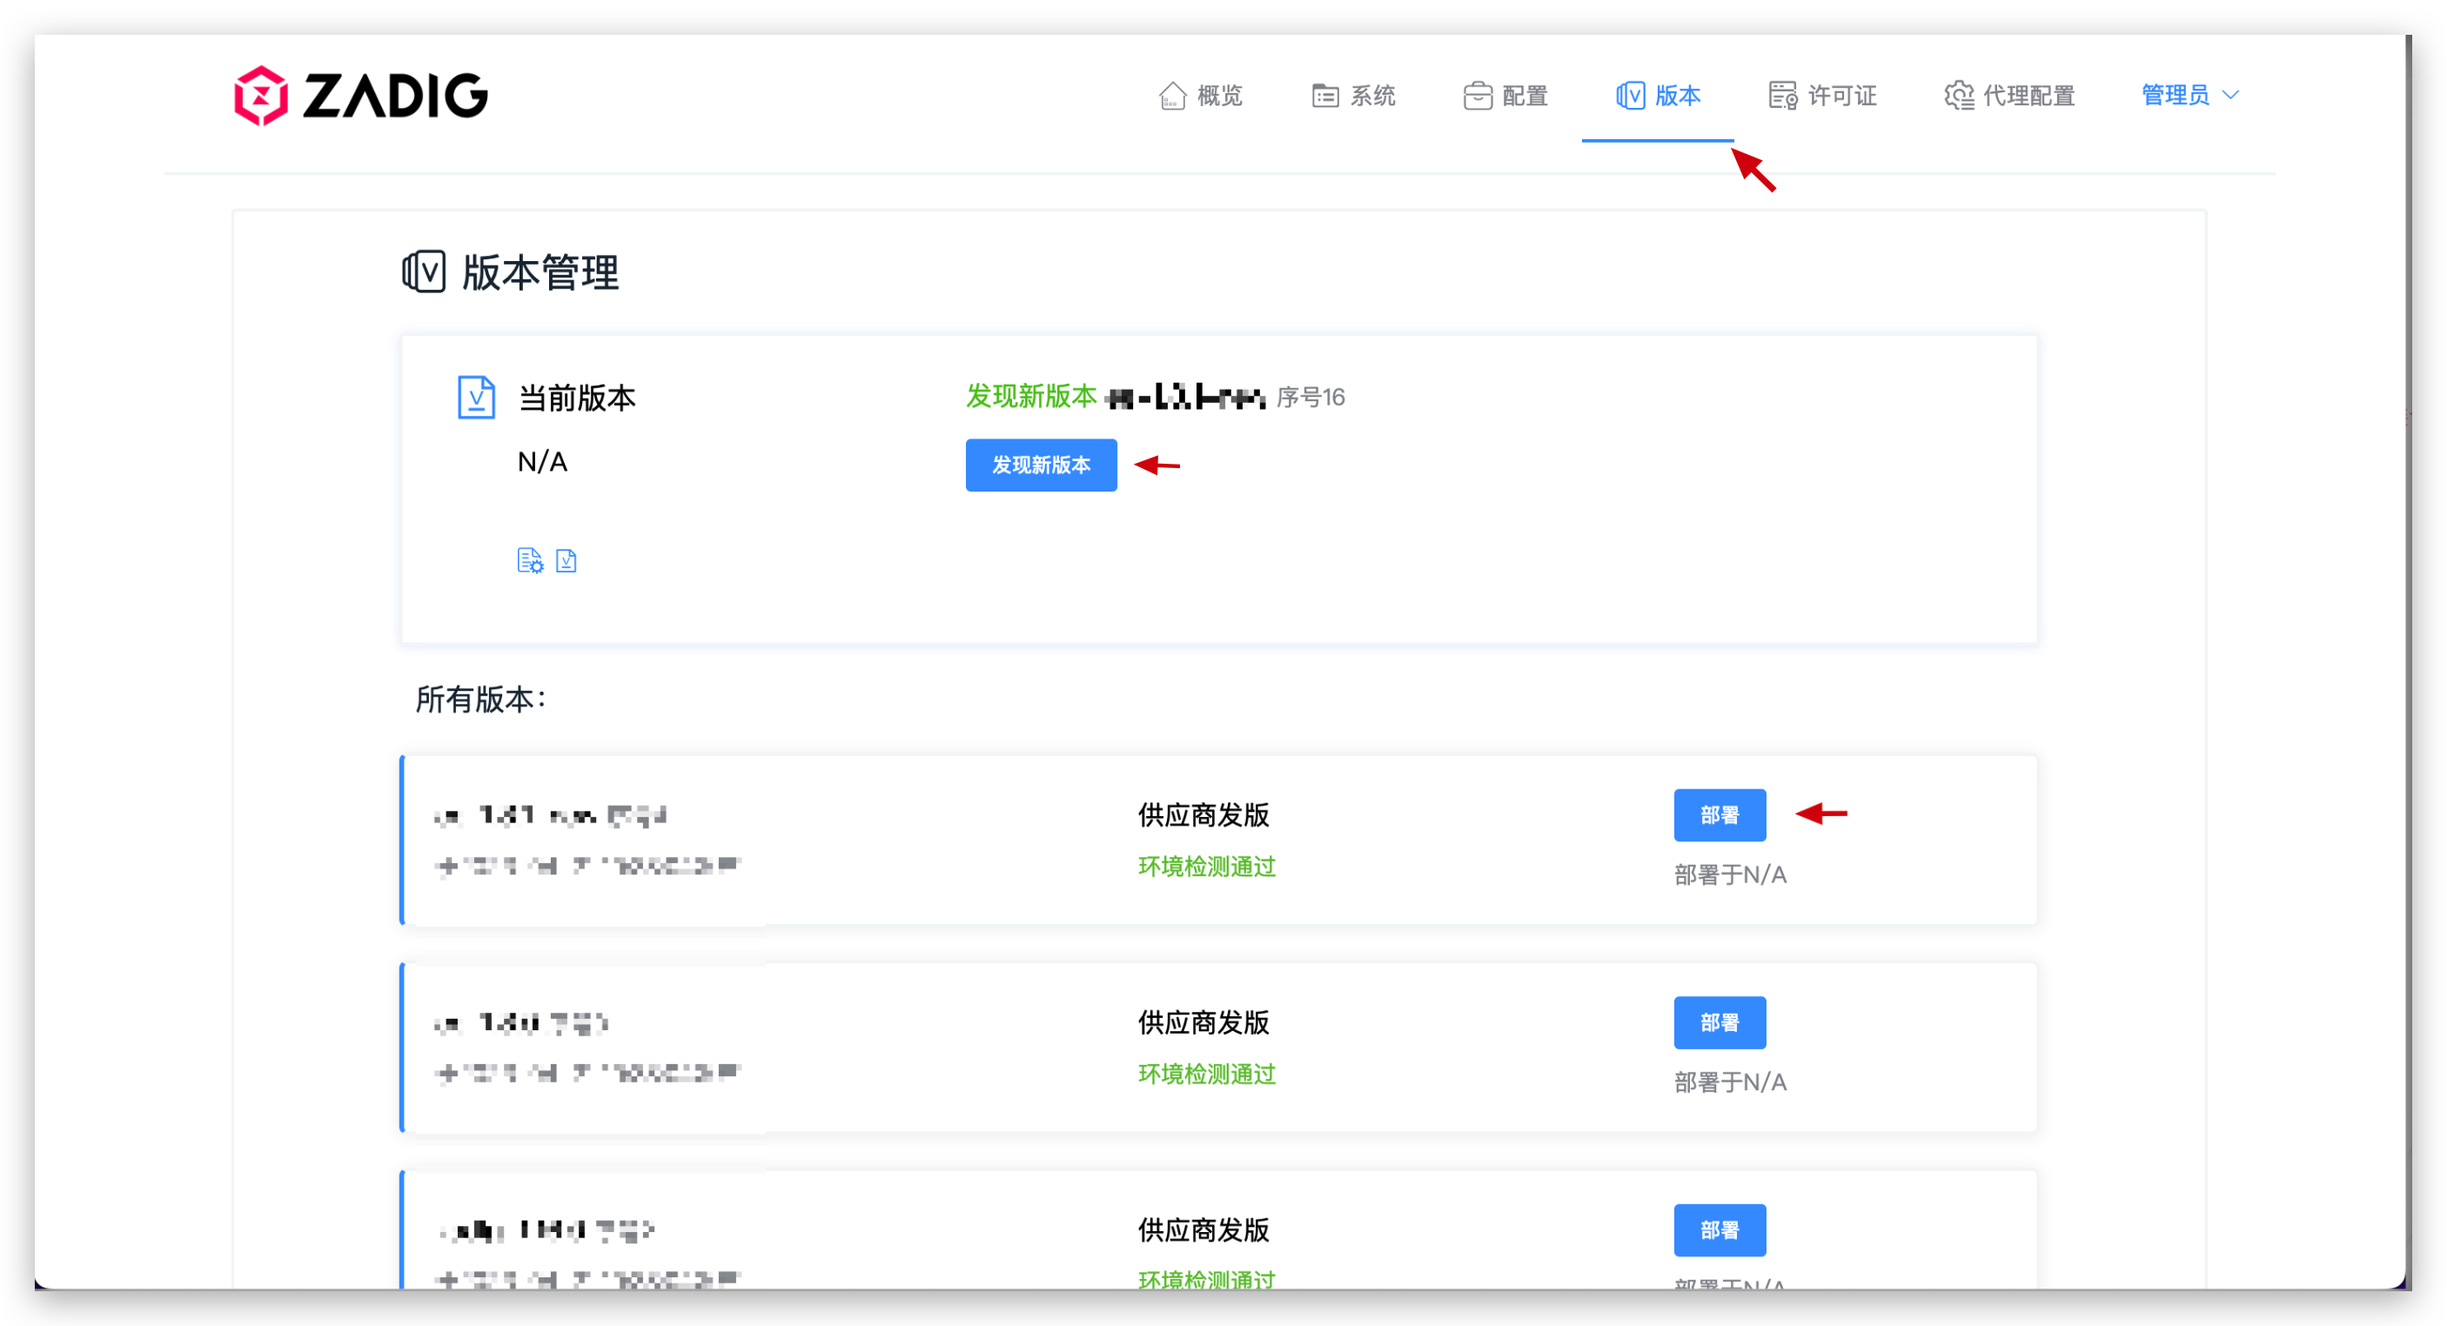
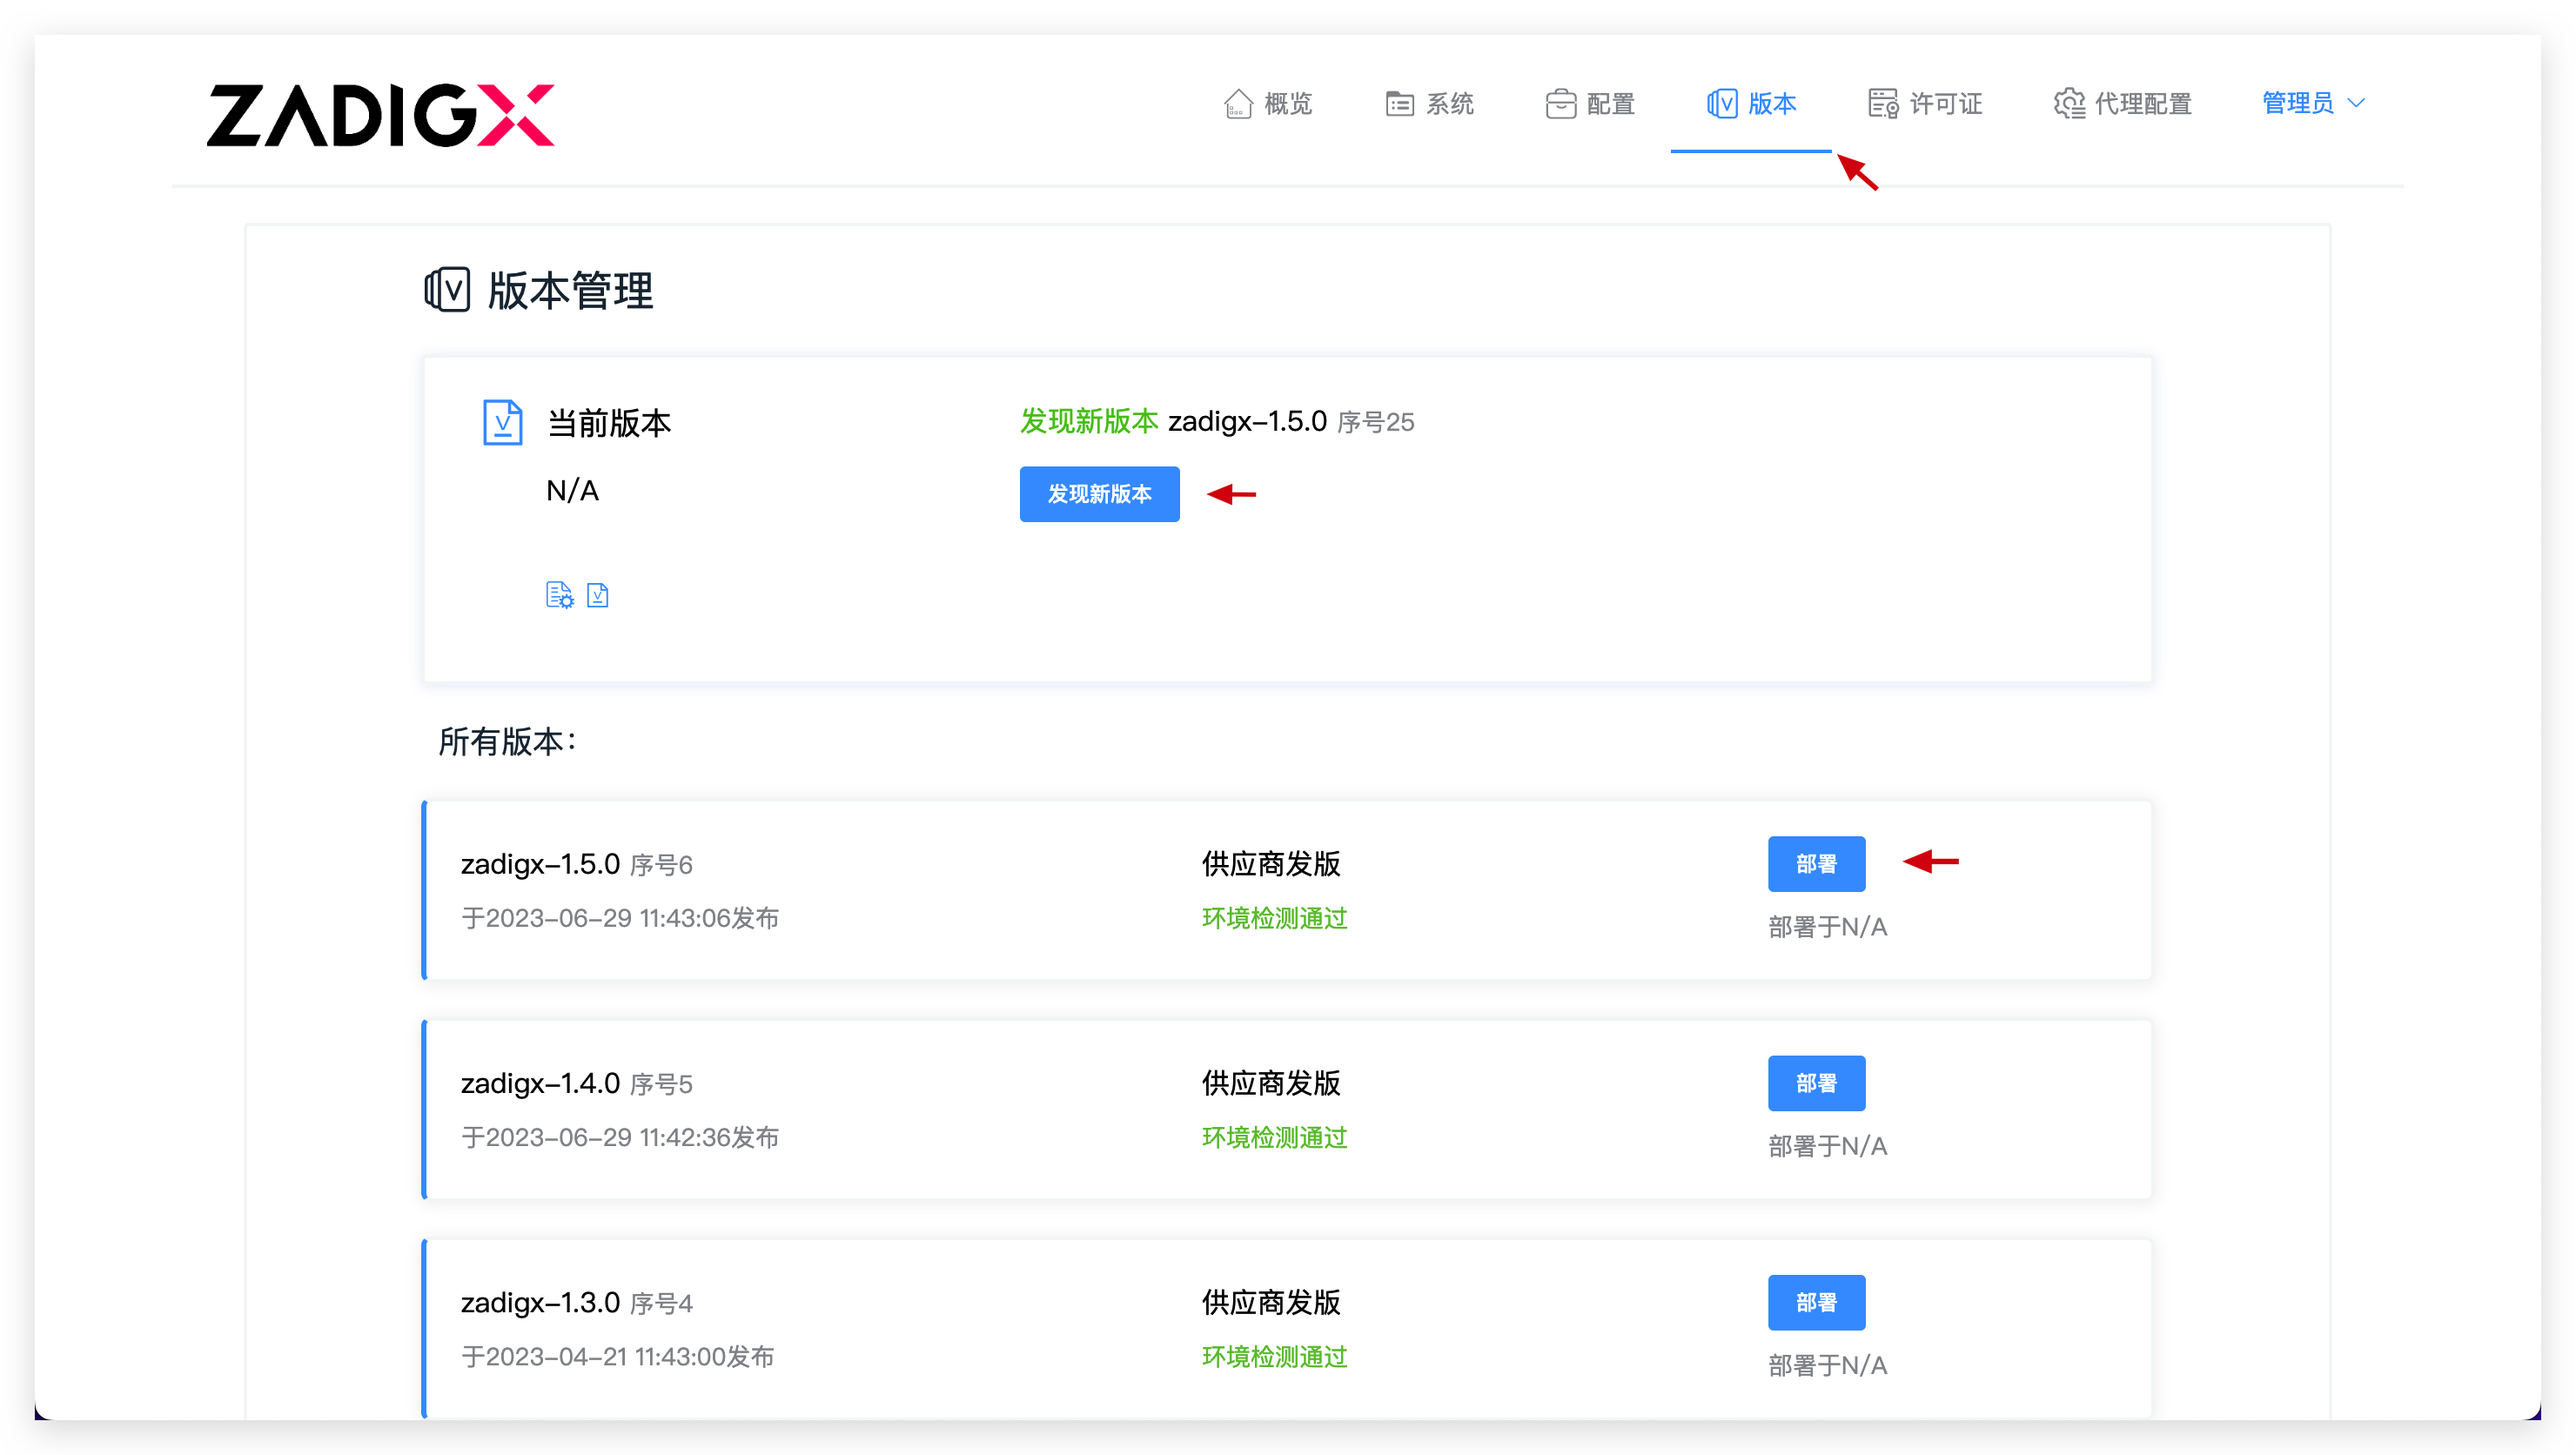
update how to install/upgrade ZadigX

diff --git a/ZadigX v1.5.0/02.运维手册/00.安装和升级/02.install.md b/ZadigX v1.5.0/02.运维手册/00.安装和升级/02.install.md
@@ -1,0 +1,119 @@
+---
+title: 正式使用 ZadigX
+date: 2023-04-21 09:59:31
+permalink: /ZadigX v1.5.0/stable/install/
+---
+
+本文档旨在提供 ZadigX 详细的安装指南，以帮助你顺利安装并正式使用。包括以下内容：
+
+- [安装 ZadigX 前的相关资源准备](#资源准备)
+- [ZadigX 的具体安装步骤](#安装)
+- [安装完成后，如何在线升级 ZadigX](#升级)
+- [ZadigX 安装参数说明](安装参数说明)
+
+## 资源准备
+
+1. Kubernetes 集群，版本：v1.16 ~ v1.26，节点建议：2 台 8C16G，且对该集群有管理员操作权限
+2. 可正常连通上述 K8s 集群，且安装了 [kubectl](https://kubernetes.io/docs/tasks/tools/) 客户端的机器，用于执行安装命令
+3. 网络准备：
+    - 如果选择 IP+端口 的方式访问 ZadigX 系统，需要确保集群节点有外部 IP 可供访问
+    - 如果选择域名方式访问 ZadigX 系统，需要准备可用的域名
+4. [可选]如果对 ZadigX 有高可用需求，需准备以下数据库资源：
+    - 高可用的 MongoDB（版本： v3.4+）
+    - 高可用的 MySQL（版本：v5.7+）
+
+::: tip 自建集群注意事项
+1. 在安装之前，需要配置 Kubernetes 默认的 StorageClass，以支持创建 PVC 用于数据持久化<br>
+2. 配置 kube-dns 服务，以支持服务和 Pod 之间的按名称寻址
+:::
+
+## 安装
+
+::: tip
+利用 ZadigX 的`客户交付`能力，在控制台中在线安装 ZadigX，在安装 ZadigX 之前请先安装客户交付控制台，参考文档：
+
+1. [安装客户控制台](/ZadigX%20v1.5.0/plutus/customer/#安装客户控制台)
+2. [配置客户控制台](/ZadigX%20v1.5.0/plutus/customer/#配置许可证)
+
+安装完成后，需要上传许可证才可正常使用 ZadigX，请提前联系官方获取。
+:::
+
+### 第一步：选择版本
+
+访问客户控制台 > `版本`，点击`发现新版本`获取 ZadigX 的所有版本，按需选择版本后点击`部署`进入参数配置页面。
+
+![安装](../_images/install_1.png)
+
+### 第二步：配置参数
+
+设置安装参数后点击`部署`。
+
+> 安装过程受硬件配置和网络情况影响，不同环境下的时间可能不同，可以执行 kubectl -n {Namespace} get pod 查询服务状态，当所有服务都是 RUNNING 状态时，则说明部署成功。
+
+![安装](../_images/install_2.png)
+
+参数说明：
+
+- `命名空间`：将 ZadigX 安装在哪个命名空间中
+- `Release 名称`：可自定义
+- `Helm values 文件`：配置 ZadigX 的相关安装参数
+    - 支持手动输入和点击`添加`指定 key/value 两种方式
+    - [点我](#安装参数说明)查看安装参数说明
+
+### 第三步：配置许可证
+
+待 ZadigX 成功部署后，访问 ZadigX 系统，输入许可证保存后，使用管理员账号登录系统即可。
+
+::: tip
+管理员账号：admin<br>管理员密码：默认为 zadig，安装时可指定
+:::
+
+![安装](../_images/install_3.png)
+
+## 升级
+
+::: warning
+升级前请务必做好数据备份，参考文档：[备份数据](/ZadigX%20v1.5.0/stable/backup-and-restore/#数据备份)。
+:::
+
+访问客户控制台 > `版本`，点击`发现新版本`获取 ZadigX 的新版本，按需选择新版本后点击`部署`，配置参数后点击`部署`，等 ZadigX 部署完成即可。
+
+> 配置参数可参考文档：[参数配置](#第二步配置参数)
+
+![安装](../_images/install_1.png)
+
+## 安装参数说明
+
+### 通用安装参数
+
+| 参数名 | 必填              | 备注 | 
+|--------|-----------------------------|---------|--------|
+| global.extensions.extAuth.extauthzServerRef.namespace | 是 | ZadigX 安装所在的 Namespace | 
+| endpoint.FQDN |  使用域名访问 ZadigX 时必填 | 访问 ZadigX 系统的完整 URL | 
+| endpoint.type | 使用 IP+Port 访问 ZadigX 时必填 | 设置为固定值: IP |
+| endpoint.IP | 使用 IP+Port 访问 ZadigX 时必填 | K8s 节点任一可外网访问的 IP |
+| gloo.gatewayProxies.gatewayProxy.service.httpNodePort |使用 IP+Port 访问 ZadigX 时必填|指定的端口号 < 30000 - 32767> |
+| gloo.gatewayProxies.gatewayProxy.service.type | 使用 IP+Port 访问 ZadigX 时必填 | 固定值:  NodePort|
+| dex.config.staticClients[0].redirectURIs[0] | 是 | 使用域名方式访问：`http://${endpoint.FQDN}/api/v1/callback`<br>使用 IP+Port 方式访问: `http://${IP}:${PORT}/api/v1/callback`|
+| init.adminEmail | 否，默认为 admin@koderover.com| 管理员账号的邮箱 |
+| init.adminPassword | 否，默认为 zadig| 管理员账号的密码 |
+
+### 高可用安装参数
+
+如果安装高可用 ZadigX，还需配置以下参数：
+
+> 高可用版本使用外置的 MongoDB, MySQL 组件，数据持久化以及高可用性由具体的 MongoDB, MySQL 服务提供商保障
+
+| 参数名 | 必填              | 备注 | 
+|--------|-----------------------------|---------|--------|
+| tags.mysql |是 | 是否安装内置的 MySQL，指定为 false| 
+| connections.mysql.host |是 | MySQL 连接地址 |
+| connections.mysql.auth.user | 是 | MySQL 用户名 |
+| connections.mysql.auth.password | 是| MySQL 密码|
+| dex.config.storage.config.host | 是| Dex 系统所使用的 MySQL Host|
+| dex.config.storage.config.port|是|Dex 系统所使用的 MySQL 端口|
+|dex.config.storage.config.user|是|Dex 系统所使用的 MySQL 用户名|
+|dex.config.storage.config.password|是|Dex 系统所使用的 MySQL 密码|
+| tags.mongodb | 是 | 是否安装内置的 MongoDB，指定为 false |
+| connections.mongodb.connectionString | 是 | MongoDB 数据库连接串，配置多个地址时需要进行转义，比如：`mongodb://user:password@8.10.20.20\,8.10.20.30`|
+|ee.mongodb.db|是| MongoDB 数据库名称|

diff --git a/ZadigX v1.5.0/02.运维手册/00.安装和升级/04.zadig_to_zadigx.md b/ZadigX v1.5.0/02.运维手册/00.安装和升级/04.zadig_to_zadigx.md
@@ -4,13 +4,16 @@ date: 2023-04-21 09:59:31
 permalink: /ZadigX v1.5.0/stable/zadig-to-zadigx/
 ---
 
-本文主要介绍如何将 Zadig 升级为 ZadigX，适用于已经安装使用 Zadig 的用户，希望将其升级为 ZadigX。
+本文档旨在提供从 Zadig 到 ZadigX 的升级指南，适用于 Zadig 已经正式投入使用，希望将其升级为 ZadigX 的用户，主要包括以下内容：
+
+- [从 Zadig 升级到 ZadigX 的注意事项](#注意事项)，非常重要，请仔细阅读
+- [升级前的准备工作](#准备工作)
+- [从 Zadig 升级 ZadigX 的详细步骤](#升级步骤)
 
 ## 注意事项
 
-1. 升级操作不可逆，Zadig / ZadigX 的数据结构差异较大，降级会造成不可用。如果要试用 ZadigX，建议使用[官方安装小助手](https://www.koderover.com/trial)来全新安装。
+1. ZadigX 和 Zadig 的数据结构差异较大，升级操作不可逆，降级会造成不可用。如果要试用 ZadigX，建议全新安装来体验，参考文档：[试用 ZadigX](/ZadigX%20v1.5.0/stable/quick-install/)。
 2. Zadig 的版本不能低于 v1.17.0，如果版本不能满足，请参考[升级文档](/Zadig%20v1.17.0/release-notes/v1.17.0/#版本升级过程)先将其升级。
-3. 升级前请[联系官方](https://www.koderover.com/contacts)以获取 ZadigX 使用许可证。
 
 ## 准备工作
 
@@ -45,6 +48,10 @@ ee:
 
 在 MongoDB 数据库实例中新增数据库 plutus_zadig，并赋予读写权限。
 
+**4. 获取许可证**
+
+联系官方获取 ZadigX 许可证。
+
 ## 升级步骤
 :::warning 注意事项
 1. 升级时，确保使用的 ReleaseName 和安装 Zadig 时的值保持一致。
@@ -62,6 +69,12 @@ helm upgrade {ReleaseName} koderover-chart/zadigx -n {Namespace} -f config.yaml
 ```
 
 安装过程受硬件配置和网络情况影响，不同环境下的时间可能不同，可以执行 `kubectl -n {Namespace} get pod` 查询服务状态，当所有服务都是 `RUNNING` 状态时，则说明安装成功。
+
+### 配置许可证
+
+待 ZadigX 成功部署后，访问 ZadigX 系统，输入许可证保存后即可。
+
+![安装](../_images/install_3.png)
 
 ### 导入数据
 
@@ -92,7 +105,3 @@ mysql -h <HOST> -P <PORT> -u root -p dex < dex.sql
 2. 检查项目/环境/服务/系统集成的数据是否正常。
 3. 检查验收项目中的环境、服务数据是否展示正常。
 4. 检查验收项目中的产品/自定义工作流（若有）是否可正常运行。
-
-::: tip
-管理员默认账号和密码分别是 admin 和 zadig，如果安装 Zadig 时有做修改，以修改的为准。
-:::

diff --git a/ZadigX v1.5.0/02.运维手册/00.安装和升级/00.quick_install.md b/ZadigX v1.5.0/02.运维手册/00.安装和升级/00.quick_install.md
@@ -1,0 +1,47 @@
+---
+title: 试用 ZadigX
+date: 2023-04-21 09:59:31
+permalink: /ZadigX v1.5.0/stable/quick-install/
+---
+
+本文档旨在提供 ZadigX 快速安装指南，适用于希望对 ZadigX 进行快速尝鲜体验的用户，主要包括以下内容：
+
+- [安装 ZadigX 前的相关资源准备](#资源准备)
+- [ZadigX 的具体安装步骤](#安装)
+
+## 资源准备
+
+1. Kubernetes 集群，版本：v1.16 ~ v1.26，节点建议：至少 4C8G，且对该集群有管理员操作权限
+2. Helm 命令行工具，版本：v3.5+，可以从[此处](https://github.com/helm/helm/releases)获取
+3. 网络准备：
+    - 如果选择 IP+端口 的方式访问 ZadigX 系统，需要确保集群节点有外部 IP 可供访问
+    - 如果选择域名方式访问 ZadigX 系统，需要准备可用的域名
+
+::: tip 自建集群注意事项
+1. 在安装之前，需要配置 Kubernetes 默认的 StorageClass，以支持创建 PVC 用于数据持久化<br>
+2. 配置 kube-dns 服务，以支持服务和 Pod 之间的按名称寻址
+:::
+
+## 安装
+
+### 第一步：安装 ZadigX
+
+使用[官方安装小助手](https://www.koderover.com/trial)一键快速安装。
+
+> 安装过程受硬件配置和网络情况影响，不同环境下的时间可能不同，可以执行 kubectl -n {Namespace} get pod 查询服务状态，当所有服务都是 RUNNING 状态时，则说明部署成功。
+
+### 第二步：获取许可证
+
+联系[官方](https://www.koderover.com/getLicense)获取试用许可证。
+
+### 第三步：配置许可证
+
+待 ZadigX 成功部署后，访问 ZadigX 系统，输入许可证保存后登录即可。
+
+> 初始化账号密码在安装时指定。
+
+![安装](../_images/install_3.png)
+
+## 升级
+
+不支持升级，[官方](https://www.koderover.com/trial)提供的一直是最新版本。

diff --git a/ZadigX v1.5.0/02.运维手册/02.backup_and_restore.md b/ZadigX v1.5.0/02.运维手册/02.backup_and_restore.md
@@ -4,7 +4,7 @@ date: 2021-03-29 16:24:12
 permalink: /ZadigX v1.5.0/stable/backup-and-restore/
 ---
 
-投入生产使用后，建议定时对 ZadigX 系统的数据做备份，当数据库故障等极端情况发生时，可参考本手册快速恢复。
+投入生产使用后，建议定时对 ZadigX 系统的数据做备份，当数据库故障、Kubernetes 集群故障等极端情况发生时，可参考本手册快速恢复。
 
 ## 数据备份
 
